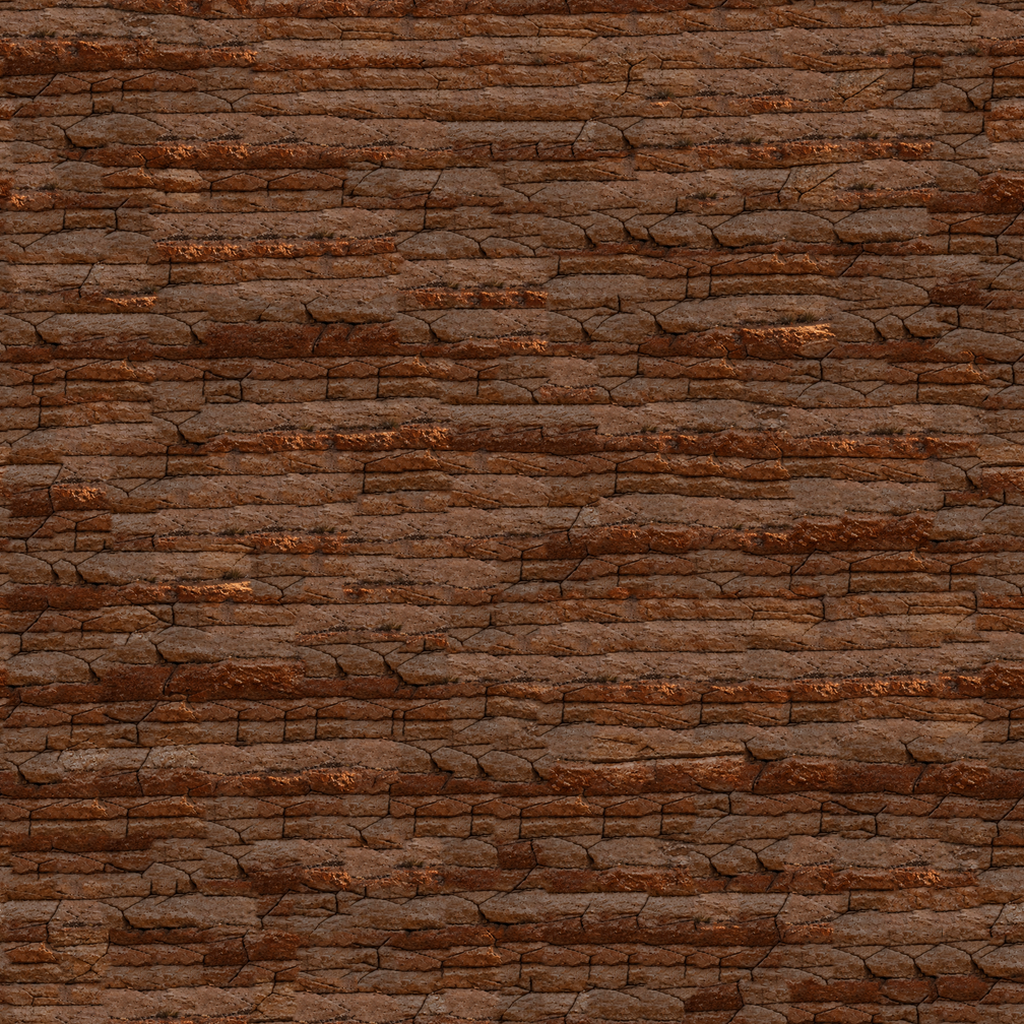
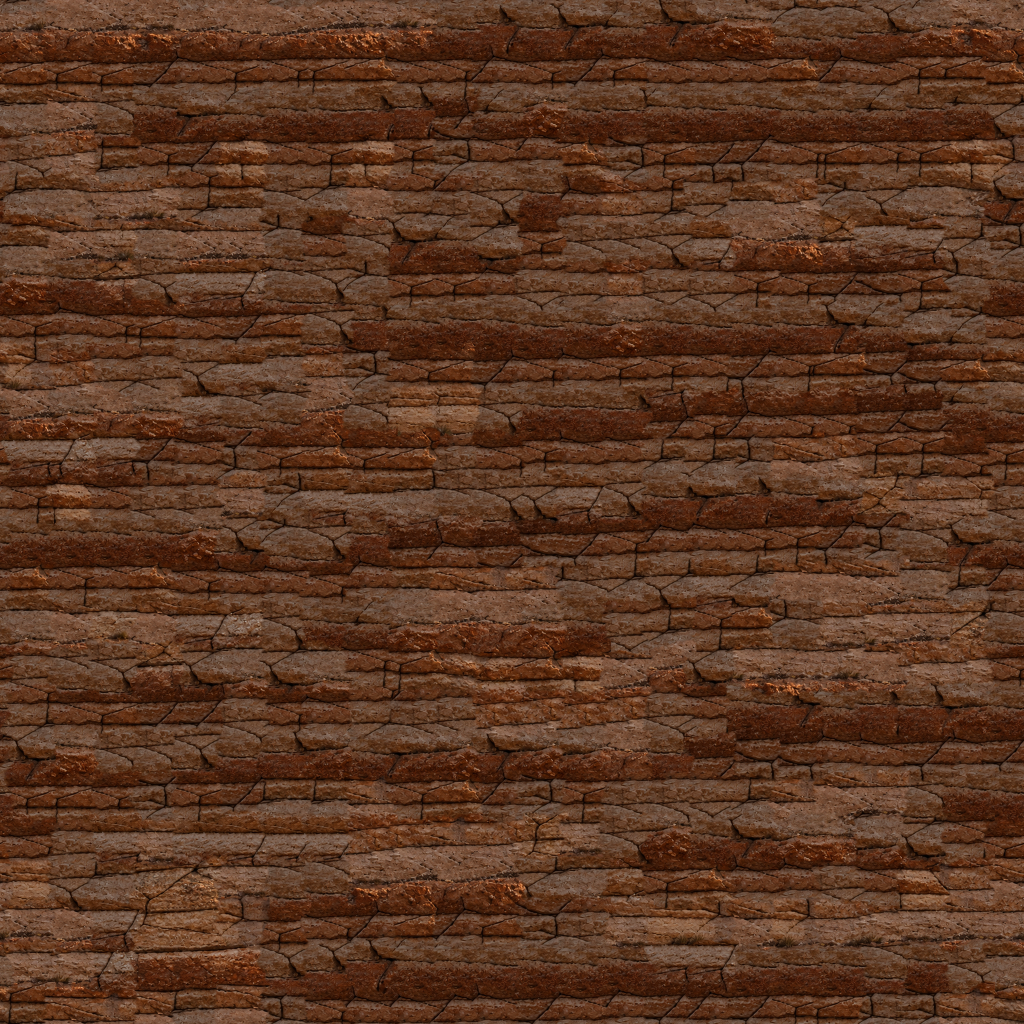
Чёткая карта при приближении: настоящие детали из текстур двойного разрешения (карты деталей assets/tex/hi), ссылки пиксель→текстура; сцены Blender можно сохранить в .blend (оружие — витрина, текстуры — SAVE_BLEND)
Claude-Session: https://claude.ai/code/session_01JvXrYdG1XCH4i3GESsQzbh

diff --git a/js/hires.js b/js/hires.js
@@ -15,24 +15,17 @@ class HiResTerrain {
     const w = HIRES_T + 2 * HIRES_P;
     this.src = makeCanvas(w, w); this.sx = this.src.getContext('2d', { willReadFrequently: true });
   }
-  /** высокочастотная часть фото-текстуры темы (серое, среднее 0) */
-  detail(sc) {
-    const id = sc.theme.id; if (this.detKey === id) return this.det;
-    const tx = (sc.theme.ground && sc.theme.ground.tex) || {}, T = TexLib.data[tx.rock || tx.dirt || tx.concrete || tx.cave];
-    this.detKey = id; this.det = null; if (!T) return null;
-    const W = T.w, H = T.h, d = T.d, n = W * H, g = new Float32Array(n);
-    for (let i = 0; i < n; i++) g[i] = d[i * 4] * 0.3 + d[i * 4 + 1] * 0.59 + d[i * 4 + 2] * 0.11;
-    const R = 1, tmp = new Float32Array(n), bl = new Float32Array(n);   // только мелкое зерно, не крупный рисунок
-    for (let y = 0; y < H; y++) for (let x = 0; x < W; x++) { let a = 0; for (let k = -R; k <= R; k++) a += g[y * W + ((x + k + W) % W)]; tmp[y * W + x] = a / (2 * R + 1); }
-    for (let y = 0; y < H; y++) for (let x = 0; x < W; x++) { let a = 0; for (let k = -R; k <= R; k++) a += tmp[((y + k + H) % H) * W + x]; bl[y * W + x] = a / (2 * R + 1); }
-    let v2 = 0; for (let i = 0; i < n; i++) { const h = g[i] - bl[i]; v2 += h * h; }
-    const amp = 0.085 / Math.max(3, Math.sqrt(v2 / n)), out = new Float32Array(n);
-    for (let i = 0; i < n; i++) out[i] = Math.max(-0.5, Math.min(0.5, (g[i] - bl[i]) * amp));
-    this.det = { w: W, h: H, d: out }; return this.det;
+  /** сколько карт деталей уже загружено — когда приходят новые, плитки пересчитываются */
+  hiCount(terr) {
+    const tab = terr.texRef ? terr.texRef.tab : [], names = new Set(); let n = 0;
+    for (let i = 1; i < tab.length; i++) if (tab[i]) names.add(tab[i].name);
+    for (const nm of names) { if (TexLib.loadHi(nm) || TexLib.hi[nm]) n++; }
+    return n;
   }
   sync(terr) {
     if (!this.pending) this.pending = new Set();
-    if (terr !== this.terr) { this.tiles.clear(); this.gen = new Map(); this.pending.clear(); this.terr = terr; this.ver = terr.version; this.nTouch = (terr.touches || []).length; return; }
+    const hc = this.hiCount(terr);
+    if (terr !== this.terr || hc !== this.hc) { this.tiles.clear(); this.gen = new Map(); this.pending.clear(); this.epoch = (this.epoch || 0) + 1; this.hc = hc; this.terr = terr; this.ver = terr.version; this.nTouch = (terr.touches || []).length; return; }
     if (terr.version === this.ver) return;
     const T = terr.touches || [];
     if (T.length === this.nTouch) { this.tiles.clear(); this.gen = new Map(); this.pending.clear(); }   // перерисовка целиком
@@ -52,7 +45,7 @@ class HiResTerrain {
       const n = Math.max(1, Math.min(4, (navigator.hardwareConcurrency || 4) - 1));
       this.workers = [];
       for (let i = 0; i < n; i++) {
-        const wk = new Worker(url); wk.idle = true; wk.detKey = null;
+        const wk = new Worker(url); wk.idle = true; wk.hiSent = new Set();
         wk.onmessage = (ev) => this.done(wk, ev.data); wk.onerror = () => { wk.idle = true; };
         this.workers.push(wk);
       }
@@ -65,15 +58,25 @@ class HiResTerrain {
     const x0 = tx * T - P, y0 = ty * T - P, sx = this.sx;
     sx.clearRect(0, 0, w, w); sx.drawImage(terr.decor, x0, y0, w, w, 0, 0, w, w); sx.drawImage(terr.canvas, x0, y0, w, w, 0, 0, w, w);
     const src = sx.getImageData(0, 0, w, w).data;
-    const det = this.detail(sc);
-    if (det && wk.detKey !== this.detKey) { wk.postMessage({ det: { w: det.w, h: det.h, d: det.d } }); wk.detKey = this.detKey; }
+    // ссылки на текстуры: какой пиксель из какой текстуры (перед — твёрдое, иначе задняя стена)
+    const R = terr.texRef, W = sc.W, H = sc.H, ref = new Uint8Array(w * w), tab = {};
+    if (R) for (let y = 0; y < w; y++) {
+      const gy = y0 + y; if (gy < 0 || gy >= H) continue;
+      for (let x = 0; x < w; x++) {
+        const gx = x0 + x; if (gx < 0 || gx >= W) continue;
+        const i = gy * W + gx, id = terr.mask[i] ? R.F[i] : R.B[i]; if (!id) continue;
+        const e = R.tab[id], hi = e && TexLib.hi[e.name]; if (!hi) continue;
+        ref[y * w + x] = id;
+        if (!tab[id]) { tab[id] = { name: e.name, dx: e.dx, dy: e.dy, k: hi.w / e.w }; if (!wk.hiSent.has(e.name)) { wk.postMessage({ hi: hi }); wk.hiSent.add(e.name); } }
+      }
+    }
     wk.idle = false; this.pending.add(key);
-    wk.postMessage({ key, g: this.gen.get(key) || 0, tx, ty, T, S: HIRES_S, P, src, useDet: !!det, theme: this.detKey }, [src.buffer]);
+    wk.postMessage({ key, g: this.gen.get(key) || 0, ep: this.epoch, tx, ty, T, S: HIRES_S, P, src, ref, tab }, [src.buffer, ref.buffer]);
     return true;
   }
   done(wk, m) {
     wk.idle = true; this.pending.delete(m.key);
-    if (m.theme !== this.detKey || (this.gen.get(m.key) || 0) !== m.g) return;   // плитка устарела (взрыв, смена карты)
+    if (m.ep !== this.epoch || (this.gen.get(m.key) || 0) !== m.g) return;   // плитка устарела (взрыв, смена карты, пришли детали)
     const N = HIRES_T * HIRES_S, cv = makeCanvas(N, N);
     if (m.out) cv.getContext('2d').putImageData(new ImageData(new Uint8ClampedArray(m.out), N, N), 0, 0);
     this.tiles.set(m.key, { cv, used: this.frame });
@@ -105,9 +108,9 @@ class HiResTerrain {
 
 /* код фонового потока (запускается из строки — работает и в сборке одним файлом) */
 function hiresWorkerMain() {
-  let DET = null;
+  const HI = {};
   onmessage = (ev) => {
-    const m = ev.data; if (m.det) { DET = m.det; return; }
+    const m = ev.data; if (m.hi) { HI[m.hi.name] = m.hi; return; }
     const { T, S, P, src: sd, tx, ty } = m, w = T + 2 * P, n = w * w, N = T * S;
     const R = new Float32Array(n), G = new Float32Array(n), B = new Float32Array(n), A = new Float32Array(n), L = new Float32Array(n);
     let any = false;
@@ -116,7 +119,7 @@ function hiresWorkerMain() {
       R[i] = sd[i * 4] / 255 * a; G[i] = sd[i * 4 + 1] / 255 * a; B[i] = sd[i * 4 + 2] / 255 * a;
       L[i] = R[i] * 0.3 + G[i] * 0.59 + B[i] * 0.11 + a * 0.6;
     }
-    if (!any) { postMessage({ key: m.key, g: m.g, theme: m.theme, out: null }); return; }
+    if (!any) { postMessage({ key: m.key, g: m.g, ep: m.ep, out: null }); return; }
     const Jxx = new Float32Array(n), Jxy = new Float32Array(n), Jyy = new Float32Array(n);
     for (let y = 1; y < w - 1; y++) for (let x = 1; x < w - 1; x++) {
       const i = y * w + x, gx = L[i + 1] - L[i - 1], gy = L[i + w] - L[i - w];
@@ -139,10 +142,16 @@ function hiresWorkerMain() {
       return (arr[i] * (1 - fx) + arr[i + 1] * fx) * (1 - fy) + (arr[i + w] * (1 - fx) + arr[i + w + 1] * fx) * fy;
     };
     const TK = [0, 0.55, -0.55, 1.15, -1.15], WK = [1, 0.8, 0.8, 0.5, 0.5], WS = 3.6;
-    const det = m.useDet ? DET : null, dw = det ? det.w : 1, dh = det ? det.h : 1, dd = det ? det.d : null;
-    const ox = tx * T * S, oy = ty * T * S, out = new Uint8ClampedArray(N * N * 4);
+    const REF = m.ref, TAB = m.tab, out = new Uint8ClampedArray(N * N * 4);
+    // карта деталей: тексель k покрывает [k, k+1) в координатах детали; 128 = 1.0
+    const hiAt = (h, cx, cy) => {
+      const W2 = h.w, H2 = h.h, d = h.d; cx -= 0.5; cy -= 0.5;
+      const x0 = Math.floor(cx), y0 = Math.floor(cy), fx = cx - x0, fy = cy - y0;
+      const xa = ((x0 % W2) + W2) % W2, xb = (xa + 1) % W2, ya = ((y0 % H2) + H2) % H2, yb = (ya + 1) % H2;
+      return ((d[ya * W2 + xa] * (1 - fx) + d[ya * W2 + xb] * fx) * (1 - fy) + (d[yb * W2 + xa] * (1 - fx) + d[yb * W2 + xb] * fx) * fy) / 128;
+    };
     for (let Y = 0; Y < N; Y++) {
-      const v = P + (Y + 0.5) / S - 0.5, vi = Math.round(v), drow = dd ? (((oy + Y) % dh) + dh) % dh * dw : 0;
+      const v = P + (Y + 0.5) / S - 0.5, vi = Math.round(v), wy = ty * T + (Y + 0.5) / S;
       for (let X = 0; X < N; X++) {
         const u = P + (X + 0.5) / S - 0.5, li = vi * w + Math.round(u), o = (Y * N + X) * 4, co = CO[li];
         let sr, sg, sb, sa;
@@ -162,13 +171,14 @@ function hiresWorkerMain() {
         let a = sa < 0 ? 0 : sa > 1 ? 1 : sa; if (a <= 0.003) continue;
         let r = sr / a, g = sg / a, b = sb / a;
         if (co > 0.12) a = Math.max(0, Math.min(1, (a - 0.5) * 1.7 + 0.5));   // чёткий контур на фоне неба
-        if (dd) {   // мелкий рельеф материала: «перекрытие» по яркости
-          const h = dd[drow + (((ox + X) % dw) + dw) % dw];
-          r += h * (r < 0.5 ? 2 * r : 2 * (1 - r)); g += h * (g < 0.5 ? 2 * g : 2 * (1 - g)); b += h * (b < 0.5 ? 2 * b : 2 * (1 - b));
+        const rid = REF[li];
+        if (rid) {   // настоящие детали текстуры мельче пикселя карты (рендер Blender в двойном разрешении)
+          const e = TAB[rid], h = HI[e.name];
+          if (h) { const wx = tx * T + (X + 0.5) / S, q = hiAt(h, (wx + e.dx) * e.k, (wy + e.dy) * e.k); r *= q; g *= q; b *= q; }
         }
         out[o] = r * 255; out[o + 1] = g * 255; out[o + 2] = b * 255; out[o + 3] = a * 255;
       }
     }
-    postMessage({ key: m.key, g: m.g, theme: m.theme, out: out.buffer }, [out.buffer]);
+    postMessage({ key: m.key, g: m.g, ep: m.ep, out: out.buffer }, [out.buffer]);
   };
 }

diff --git a/js/terrain_visual.js b/js/terrain_visual.js
@@ -172,6 +172,7 @@ function texMean(T) {
 function texAt(T, x, y, o) {
   const tx = ((x | 0) % T.w + T.w) % T.w, ty = ((y | 0) % T.h + T.h) % T.h, j = (ty * T.w + tx) * 4, d = T.d;
   o.r = d[j]; o.g = d[j + 1]; o.b = d[j + 2];
+  o.tT = T; o.tsx = x; o.tsy = y;   // какая текстура и где взята — для чёткой карты при приближении (js/hires.js)
 }
 
 /** цвет материала в точке. Результат в o: r,g,b; свечение ga/gr/gg/gb; блеск spec */
@@ -179,7 +180,7 @@ function shadeMaterial(S, mt, x, y, t, capT, d, info, o, isBack) {
   const tl = S.tiles, LX = LIGHT.x, LY = LIGHT.y, LZ = LIGHT.z;
   const ty = (y & 255) << 8, ty2 = ((y >> 1) & 255) << 8, ty3 = ((y >> 2) & 255) << 8;
   const n1 = tl.t1[ty | (x & 255)], n2 = tl.t2[ty2 | ((x >> 1) & 255)], n3 = tl.t3[ty3 | ((x >> 2) & 255)];
-  o.n1 = n1; o.ga = 0; o.cap = false; o.spec = 0; o.emit = false; o.tex = false;
+  o.n1 = n1; o.ga = 0; o.cap = false; o.spec = 0; o.emit = false; o.tex = false; o.tT = null;
   let r, g, bl;
   if (t < capT) {
     // шапка (трава/снег/песок): светлая кромка, сочная середина, тёмная «губа» снизу
@@ -687,6 +688,14 @@ function buildTerrainVisual(T, theme, map, raster, waterY) {
   const tint = hex2rgb(theme.backTint || '#0a0e1a');
   const bounce = hex2rgb(theme.sky[2] || theme.sky[1]);
   const img = T.ctx.createImageData(W, H); const px = img.data;
+  // откуда взят цвет каждого пикселя (текстура и её сдвиг) — по этим ссылкам при приближении подставляются мелкие детали
+  const refF = new Uint8Array(W * H), refB = new Uint8Array(W * H), refTab = [null], refMap = new Map();
+  const texRefId = (o, x, y) => {
+    const T2 = o.tT, dx = ((Math.round(o.tsx - x) % T2.w) + T2.w) % T2.w, dy = ((Math.round(o.tsy - y) % T2.h) + T2.h) % T2.h, key = T2.name + ':' + dx + ':' + dy;
+    let id = refMap.get(key); if (id === undefined) { if (refTab.length > 254) return 0; id = refTab.length; refTab.push({ name: T2.name, dx, dy, w: T2.w, h: T2.h }); refMap.set(key, id); }
+    return id;
+  };
+  T.texRef = { F: refF, B: refB, tab: refTab };
   let hasBack = false; for (let i = 0; i < N; i++) if (back[i] && !m[i]) { hasBack = true; break; }
   const bimg = hasBack ? T.dctx.createImageData(W, H) : null; const bpx = bimg ? bimg.data : null;
   const gimg = T.gctx ? new Uint8ClampedArray(N * 4) : null;
@@ -732,7 +741,7 @@ function buildTerrainVisual(T, theme, map, raster, waterY) {
           else { o.r = 150; o.g = 104; o.b = 62; }
           if (t < 1.2) { o.r = o.r * 0.6 + 255 * 0.4; o.g = o.g * 0.6 + 236 * 0.4; o.b = o.b * 0.6 + 200 * 0.4; }   // освещённая кромка пола
           else if (t >= 6.5) { o.r *= 0.35; o.g *= 0.35; o.b *= 0.35; }   // тёмный шов между полом и перекрытием
-          o.tex = true;
+          o.tex = true; o.tT = null;
         }
         let r = o.r, g = o.g, bl = o.b;
         // объём: нормаль из размытой высоты
@@ -772,12 +781,14 @@ function buildTerrainVisual(T, theme, map, raster, waterY) {
         if (dd < 50) { const kw = (1 - dd / 50) * (1 - shd) * 0.9; r *= 1 + kw * 0.08; g *= 1 + kw * 0.025; bl *= 1 - kw * 0.08; }
         if (o.emit) { r = o.r * 1.05; g = o.g * 1.02; bl = o.b; }                    // светящиеся окна не темнеют от теней и глубины
         const j = i * 4; px[j] = r; px[j + 1] = g; px[j + 2] = bl; px[j + 3] = 255;
+        if (o.tT && !o.emit) refF[i] = texRefId(o, x, y);
         if (o.ga > 0 && gimg) { gimg[j] = o.gr; gimg[j + 1] = o.gg; gimg[j + 2] = o.gb; gimg[j + 3] = o.ga; }
       } else {
         shadeMaterial(S, back[i] === 1 || back[i] === 2 ? 12 : back[i], x, y, 60000, 0, 99, infos[bsid[i]] || infos[0], o, true);   // земляные пещеры — стены из плитняка
         let wd = 24; for (let q = 1; q < 24; q++) { if ((y - q >= 0 && m[i - q * W]) ) { wd = Math.min(wd, q); break; } } for (let q = 1; q < wd; q++) { if ((x - q >= 0 && m[i - q]) || (x + q < W && m[i + q])) { wd = Math.min(wd, q * 1.3); break; } }
         const k = back[i] === 3 ? 0.97 * (0.86 + 0.14 * Math.min(1, wd / 24)) * (1 - shadowAt(x, y) * 0.12) * (1 + o.n1 * 0.04) : (back[i] <= 2 ? (0.3 + (1 - occ) * 0.5) * S.backK : back[i] === 3 ? 0.78 + (1 - occ) * 0.2 : 0.56 + (1 - occ) * 0.4) * (1 + o.n1 * 0.05) * (1 - shadowAt(x, y) * 0.3) * (back[i] === 3 ? 0.7 + 0.3 * Math.min(1, wd / 24) : 0.4 + 0.6 * Math.min(1, wd / 24)) * caveAO(m, i, W, y, back[i], H) * (back[i] <= 2 ? 1.3 : 1); const j = i * 4;
         bpx[j] = o.r * k + tint[0] * 0.12; bpx[j + 1] = o.g * k + tint[1] * 0.12; bpx[j + 2] = o.b * k + tint[2] * 0.14; bpx[j + 3] = 255;
+        if (o.tT && !o.emit) refB[i] = texRefId(o, x, y);
         if (o.emit) { bpx[j] = o.r * 0.88; bpx[j + 1] = o.g * 0.86; bpx[j + 2] = o.b * 0.84; if (gimg) { gimg[j] = o.gr; gimg[j + 1] = o.gg; gimg[j + 2] = o.gb; gimg[j + 3] = o.ga; } }
       }
     }

diff --git a/js/art.js b/js/art.js
@@ -47,6 +47,25 @@ const TexLib = {
     'wpn_bazooka', 'wpn_rpg', 'wpn_assault', 'wpn_sniper', 'wpn_shotgun', 'wpn_revolver', 'wpn_magnum', 'wpn_uzi', 'wpn_minigun', 'wpn_flamer', 'wpn_autocannon', 'wpn_mortar', 'wpn_homing'],
   data: {},
   ready: null,
+  hi: {},
+  hiAvail: new Set(['brick_castle', 'dirt_canyon', 'rock_canyon']),   // какие карты деталей есть в assets/tex/hi (обновляет dev/make_detail.py)
+  /** карта мелких деталей текстуры (рендер в двойном разрешении): яркость деталей мельче пикселя карты, 128 = без изменения */
+  loadHi(n) {
+    if (this.hi[n] !== undefined) return this.hi[n];
+    this.hi[n] = null; if (!this.hiAvail.has(n)) return null;
+    const im = new Image();
+    im.onload = () => {
+      try {
+        const c = makeCanvas(im.naturalWidth, im.naturalHeight), x = c.getContext('2d', { willReadFrequently: true });
+        x.drawImage(im, 0, 0); const d = x.getImageData(0, 0, c.width, c.height).data, g = new Uint8Array(c.width * c.height);
+        for (let i = 0; i < g.length; i++) g[i] = d[i * 4];
+        this.hi[n] = { name: n, w: c.width, h: c.height, d: g };
+      } catch (e) { /* без деталей */ }
+    };
+    im.onerror = () => {};
+    im.src = `assets/tex/hi/${n}.webp`;
+    return null;
+  },
   load() {
     if (this.ready) return this.ready;
     this.ready = Promise.all(this.names.map((n) => new Promise((res) => {
@@ -54,7 +73,7 @@ const TexLib = {
       im.onload = () => {
         try {
           const c = makeCanvas(im.naturalWidth, im.naturalHeight), x = c.getContext('2d', { willReadFrequently: true });
-          x.drawImage(im, 0, 0); this.data[n] = { w: c.width, h: c.height, canvas: c, d: x.getImageData(0, 0, c.width, c.height).data };
+          x.drawImage(im, 0, 0); this.data[n] = { name: n, w: c.width, h: c.height, canvas: c, d: x.getImageData(0, 0, c.width, c.height).data };
         } catch (e) { /* холст недоступен — без текстуры */ }
         res();
       };

diff --git a/index.html b/index.html
@@ -28,7 +28,7 @@
       <div class="menu-facts"><div><strong>41</strong><span>вида оружия<br>и снаряжения</span></div><div><strong>08</strong><span>постоянных<br>полей боя</span></div><div><strong>02</strong><span>игрока.<br>один победитель.</span></div></div>
     </div>
     <div class="featured-map"><span class="eyebrow">ВЫБЕРИ СВОЁ ПОЛЕ БОЯ</span><div class="featured-title"><span id="featured-number">01 / 08</span><h2 id="featured-name">Зелёная долина</h2><div><button class="arrow-btn" data-act="map-prev" aria-label="Предыдущая карта">←</button><button class="arrow-btn" data-act="map-next" aria-label="Следующая карта">→</button></div></div><p id="featured-desc">Мельница на холме, пруд с мостом и тоннель под большим холмом</p><div class="map-dots" id="map-dots"></div><div class="static-label">◇ Фиксированная карта · Разрушаемое окружение</div></div>
-    <footer class="menu-footer"><span id="game-version">ВЕРСИЯ 2026.10.01-3</span><span>ПЛАНИРУЙ ХОД. МЕНЯЙ ЛАНДШАФТ.</span><span class="footer-status"><i></i> ГОТОВ К БОЮ</span></footer>
+    <footer class="menu-footer"><span id="game-version">ВЕРСИЯ 2026.10.01-4</span><span>ПЛАНИРУЙ ХОД. МЕНЯЙ ЛАНДШАФТ.</span><span class="footer-status"><i></i> ГОТОВ К БОЮ</span></footer>
   </section>
 
   <!-- Онлайн -->

diff --git a/dev/make_detail.py b/dev/make_detail.py
@@ -1,0 +1,38 @@
+"""
+Из текстуры двойного разрешения делает:
+  assets/tex/<имя>.png      — обычную текстуру (уменьшение 2×2, 1 тексель = 1 игровая единица);
+  assets/tex/hi/<имя>.webp  — карту мелких деталей: во сколько раз яркость каждого полупикселя отличается
+                              от сглаженной (128 = без изменений). При приближении игра умножает на неё
+                              растянутую картинку карты — появляются настоящие песчинки, швы и сколы (js/hires.js).
+Запуск: python dev/make_detail.py <текстура_2x.png> <имя> [папка_tex]
+"""
+import sys, os, numpy as np
+from PIL import Image
+
+def main(src, name, out='assets/tex'):
+    im = np.asarray(Image.open(src).convert('RGB')).astype(np.float32)
+    H, W = im.shape[:2]; H -= H % 2; W -= W % 2; im = im[:H, :W]
+    low = im.reshape(H // 2, 2, W // 2, 2, 3).mean((1, 3))
+    Image.fromarray(np.clip(low + 0.5, 0, 255).astype(np.uint8)).save(os.path.join(out, name + '.png'))
+    L = im @ np.array([0.3, 0.59, 0.11], np.float32); Ll = low @ np.array([0.3, 0.59, 0.11], np.float32)
+    # обратно вверх билинейно, с заворотом (текстура бесшовная): центры полупикселей
+    def up(a):
+        h, w = a.shape; ys = (np.arange(2 * h) + 0.5) / 2 - 0.5; xs = (np.arange(2 * w) + 0.5) / 2 - 0.5
+        y0 = np.floor(ys).astype(int); x0 = np.floor(xs).astype(int); fy = (ys - y0)[:, None]; fx = (xs - x0)[None, :]
+        ya, yb = y0 % h, (y0 + 1) % h; xa, xb = x0 % w, (x0 + 1) % w
+        return (a[ya][:, xa] * (1 - fx) + a[ya][:, xb] * fx) * (1 - fy) + (a[yb][:, xa] * (1 - fx) + a[yb][:, xb] * fx) * fy
+    ratio = (L + 4) / (up(Ll) + 4)
+    os.makedirs(os.path.join(out, 'hi'), exist_ok=True)
+    Image.fromarray(np.clip(ratio * 128, 0, 255).astype(np.uint8), 'L').save(os.path.join(out, 'hi', name + '.webp'), quality=92, method=6)
+    print('DETAIL', name, W, H, 'ratio sd %.3f' % ratio.std())
+
+def update_list(out='assets/tex', js='js/art.js'):
+    """список готовых карт деталей в js/art.js (чтобы игра не запрашивала несуществующие файлы)"""
+    import re
+    names = sorted(f[:-5] for f in os.listdir(os.path.join(out, 'hi')) if f.endswith('.webp'))
+    s = open(js, encoding='utf-8', newline='').read()
+    s = re.sub(r"hiAvail: new Set\(\[[^\]]*\]\)", "hiAvail: new Set([" + ", ".join("'%s'" % n for n in names) + "])", s)
+    open(js, 'w', encoding='utf-8', newline='').write(s)
+
+if __name__ == '__main__':
+    main(*sys.argv[1:]); update_list()

diff --git a/dev/blender/make_weapons.py b/dev/blender/make_weapons.py
@@ -84,7 +84,13 @@ def cyl(x, y, L, r, m, seg=32, r2=None, rot=0.0):
     o.location = ((x + L / 2 * math.cos(rot)) * U, 0, -(y - L / 2 * math.sin(rot)) * U)
     return o
 
+SHOW = {'on': False, 'n': 0}
 def render(sc, name):
+    if SHOW['on']:   # витрина: модели остаются в сцене, каждая — на своей «полке»
+        n = SHOW['n']; dx, z = (n % 3) * 0.56, -(n // 3) * 0.30
+        for o in sc.collection.objects:
+            if o.type == 'MESH' and not o.get('shelf'): o.location.x += dx; o.location.z += z; o['shelf'] = name
+        SHOW['n'] += 1; print('ADDED', name); return
     os.makedirs(OUT, exist_ok=True); sc.render.filepath = os.path.join(OUT, 'wpn_' + name + '.png'); bpy.ops.render.render(write_still=True); print('WROTE', name)
 
 STEEL = lambda: mat('steel', (0.42, 0.43, 0.45), 1.0, 0.32, 0.15, 60)
@@ -233,6 +239,20 @@ def homing():
     render(sc, 'homing')
 
 ALL = {'bazooka': bazooka, 'rpg': rpg, 'assault': assault, 'sniper': sniper, 'shotgun': shotgun, 'revolver': revolver, 'magnum': magnum, 'uzi': uzi, 'minigun': minigun, 'flamer': flamer, 'autocannon': autocannon, 'mortar': mortar, 'homing': homing}
+def showcase(path):
+    """все модели в одной сцене .blend — открыть в Blender и посмотреть/доработать (рендер F12)"""
+    global reset
+    sc = reset(); SHOW['on'] = True
+    _reset = reset; reset = lambda: bpy.context.scene
+    for k in ALL: ALL[k]()
+    reset = _reset
+    cam = sc.camera; n = SHOW['n']; rows = (n + 2) // 3; W, H = 3 * 0.56, rows * 0.30
+    cam.data.ortho_scale = max(W, H) + 0.06; cam.location = (0.08 + 0.56, -5, -(rows - 1) * 0.30 / 2)
+    sc.render.resolution_x = 1800; sc.render.resolution_y = int(1800 * H / W); sc.render.film_transparent = False
+    bpy.ops.wm.save_as_mainfile(filepath=os.path.abspath(path)); print('SAVED', path)
+
 if __name__ == '__main__':
     argv = sys.argv[sys.argv.index('--') + 1:] if '--' in sys.argv else []
-    for k in (argv or list(ALL)): ALL[k]()
+    if argv and argv[0] == 'blend': showcase(argv[1] if len(argv) > 1 else 'weapons.blend')
+    else:
+        for k in (argv or list(ALL)): ALL[k]()

diff --git a/dev/blender/make_textures.py b/dev/blender/make_textures.py
@@ -46,6 +46,9 @@ def reset():
     except Exception:
         pass
     sc.cycles.samples = 128
+    # TEX_SCALE=2: та же сцена в двойном разрешении — детали для чёткой карты при приближении (assets/tex/hi)
+    k = int(os.environ.get('TEX_SCALE', '1'))
+    if k > 1: sc.render.resolution_percentage = 100 * k; sc.cycles.samples = 48
     sc.cycles.use_denoising = True
     sc.render.resolution_x = PX
     sc.render.resolution_y = PX
@@ -77,6 +80,9 @@ def reset():
 def render(sc, name):
     os.makedirs(OUT, exist_ok=True)
     sc.render.filepath = os.path.join(OUT, name + '.png')
+    if os.environ.get('SAVE_BLEND'):   # сохранить сцену, чтобы открыть её в Blender
+        bpy.ops.wm.save_as_mainfile(filepath=os.path.join(os.environ['SAVE_BLEND'], name + '.blend')); print('SAVED', name + '.blend')
+        if os.environ.get('NO_RENDER'): return
     bpy.ops.render.render(write_still=True)
     print('WROTE', sc.render.filepath)
 
